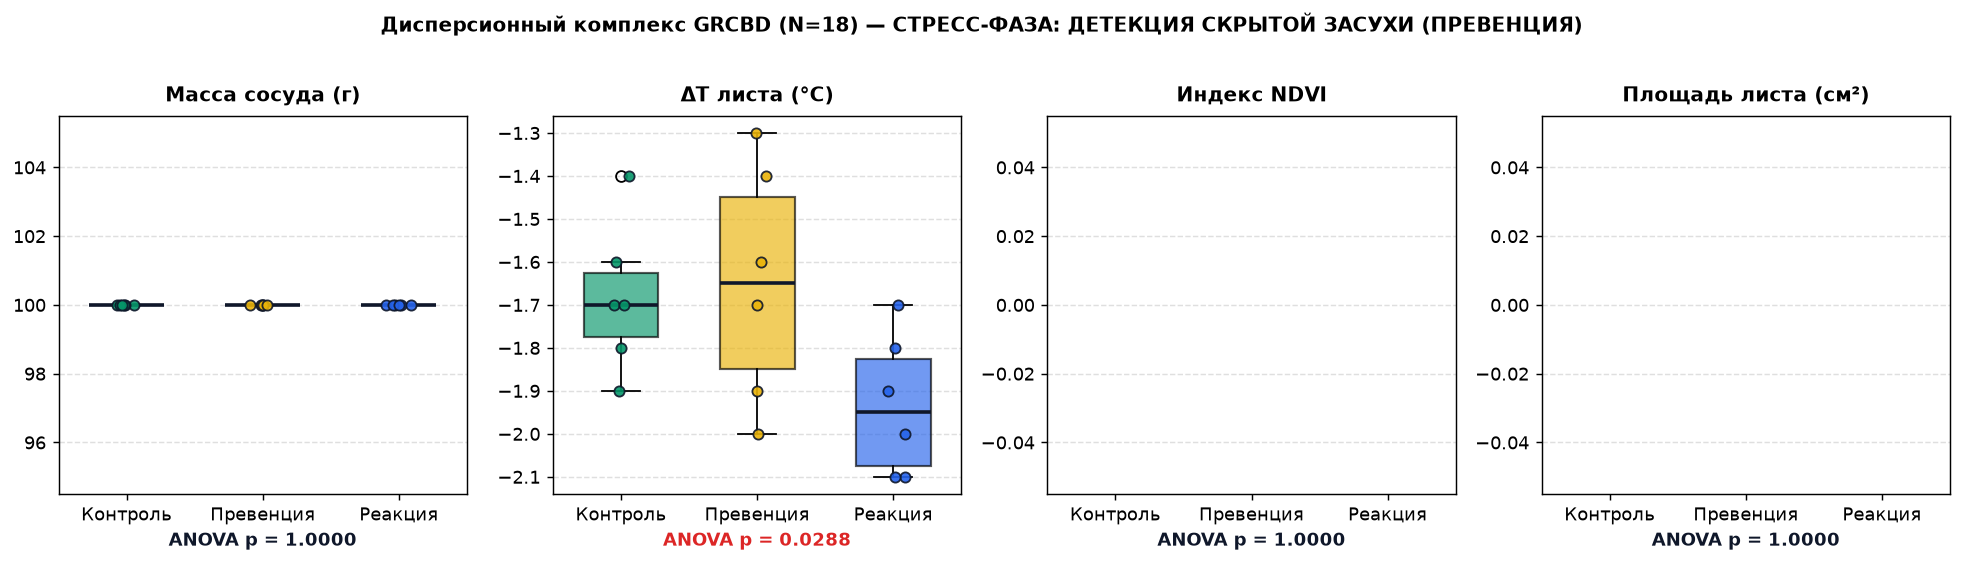
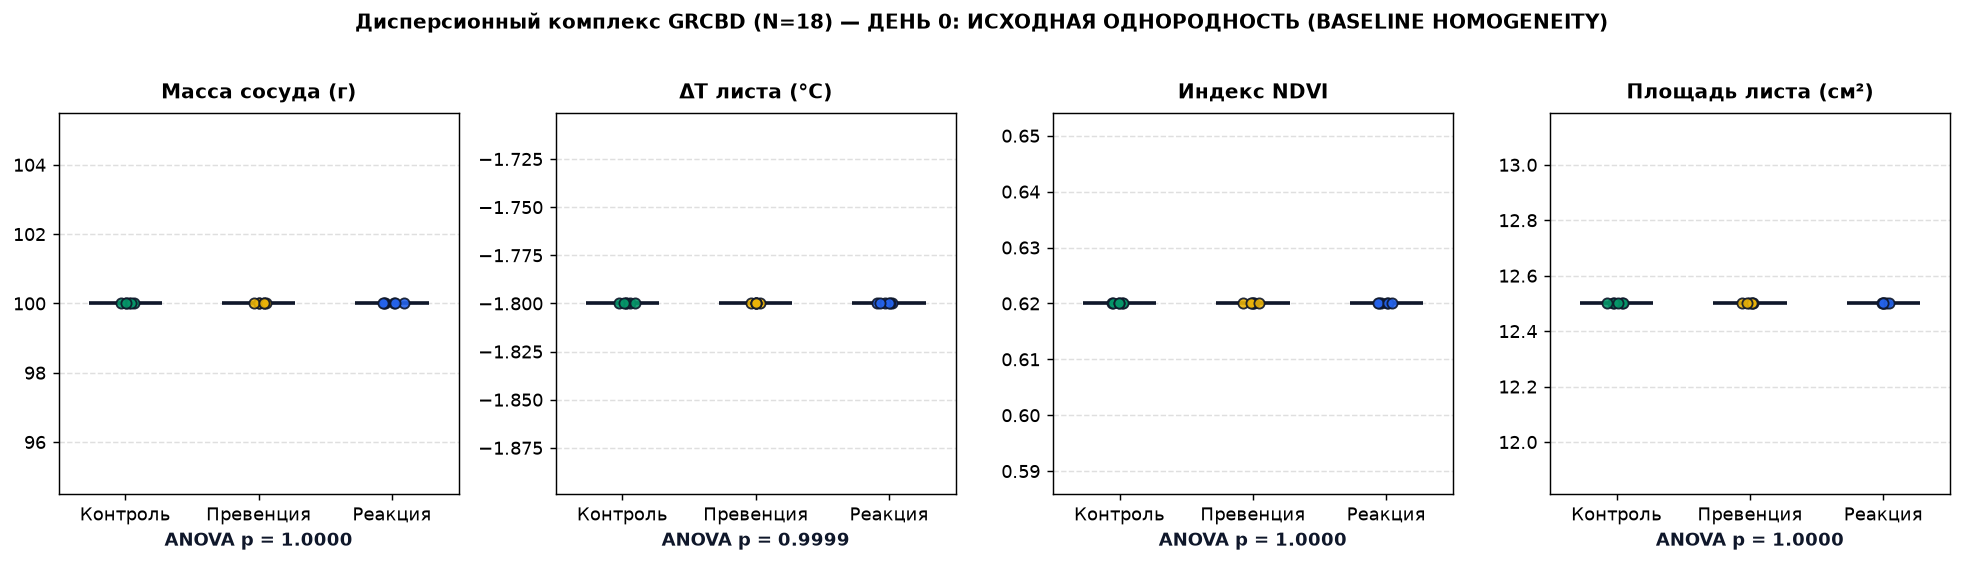
fix(anova): согласование имен колонок NDVI_Mean и Leaf_Area_cm2 для расчета биостатистики

diff --git a/tests/test_wave2_anova.py b/tests/test_wave2_anova.py
@@ -147,3 +147,26 @@ def test_wave2_dashboard_contains_anova_ui():
     assert 'id="anovaModal"' in html
     assert 'id="anovaTable"' in html
     assert 'id="anovaChartImg"' in html
+
+
+def test_wave2_anova_reads_csv_column_names():
+    """Проверка корректного считывания колонок NDVI_Mean и Leaf_Area_cm2 из CSV."""
+    records = []
+    for pid in ["K1", "K2", "K3", "K4", "K5", "K6",
+                "P1", "P2", "P3", "P4", "P5", "P6",
+                "R1", "R2", "R3", "R4", "R5", "R6"]:
+        records.append({
+            "ID": pid,
+            "Weight_g": "100.0",
+            "Delta_T_C": "-1.8",
+            "NDVI_Mean": "0.620",
+            "Leaf_Area_cm2": "12.5",
+            "Turgor_Score": "4"
+        })
+    res = analyze_wave2_dataset(records)
+    assert res["ok"] is True
+    for row in res["summary_table"]:
+        if row["trait"] == "ndvi":
+            assert "0.62" in row["k_str"]
+        if row["trait"] == "pla_cm2":
+            assert "12.5" in row["k_str"]

diff --git a/core/wave2_anova.py b/core/wave2_anova.py
@@ -170,13 +170,15 @@ def analyze_wave2_dataset(records: List[Dict[str, Any]], static_dir: str = "stat
             dt = None
             
         try:
-            ndvi = float(r.get("NDVI_mean")) if r.get("NDVI_mean") not in (None, "", "--") else None
-        except ValueError:
+            raw_ndvi = r.get("NDVI_Mean") if r.get("NDVI_Mean") is not None else r.get("NDVI_mean", r.get("ndvi"))
+            ndvi = float(raw_ndvi) if raw_ndvi not in (None, "", "--") else None
+        except (ValueError, TypeError):
             ndvi = None
             
         try:
-            pla = float(r.get("PLA_cm2")) if r.get("PLA_cm2") not in (None, "", "--") else None
-        except ValueError:
+            raw_pla = r.get("Leaf_Area_cm2") if r.get("Leaf_Area_cm2") is not None else r.get("PLA_cm2", r.get("pla"))
+            pla = float(raw_pla) if raw_pla not in (None, "", "--") else None
+        except (ValueError, TypeError):
             pla = None
             
         try:

diff --git a/docs/wave2/ANOVA_LATEST_REPORT.md b/docs/wave2/ANOVA_LATEST_REPORT.md
@@ -1,7 +1,7 @@
 # 📊 СТАТИСТИЧЕСКИЙ ОТЧЕТ GRCBD (TWO-WAY ANOVA ПО ДОСПЕХОВУ)
-**Статус сессии:** 🚨 СТРЕСС-ФАЗА: ДЕТЕКЦИЯ СКРЫТОЙ ЗАСУХИ (ПРЕВЕНЦИЯ)  
+**Статус сессии:** 🟢 ДЕНЬ 0: ИСХОДНАЯ ОДНОРОДНОСТЬ (BASELINE HOMOGENEITY)  
 **Объем выборки:** N = 18 сосудов (3 когорты × 3 блока)  
-**Вердикт алгоритма:** Термографический триггер подтвержден ANOVA: достоверный перегрев кроны (ΔT F=5.396, p=0.0288) при сохранении визуального тургора (средний балл Реакции 4.0). Превентивный полив активирован!  
+**Вердикт алгоритма:** Нулевая гипотеза подтверждена (H0: p > 0.05). Различия между группами по массе (p=1.0) и ΔT (p=0.9999) отсутствуют. Стартовый перекос исключен. Старт стресс-фазы разрешен!  
 
 ---
 
@@ -10,9 +10,9 @@
 | Физиологический параметр | Контроль (M ± SE) | Превенция (M ± SE) | Реакция (M ± SE) | Фактор Когорта (F) | p (когорта) | Фактор Блок (F) | p (блок) | НСР₀₅ |
 | :--- | :---: | :---: | :---: | :---: | :---: | :---: | :---: | :---: |
 | **Масса сосуда (г)** | 100.0 ± 0.0 | 100.0 ± 0.0 | 100.0 ± 0.0 | 0.0 | **1.0** | 0.0 | 1.0 | 0.0 |
-| **ΔT листа (°C)** | -1.68 ± 0.07 | -1.65 ± 0.11 | -1.93 ± 0.07 | 5.396 | **0.0288** | 1.021 | 0.3985 | 0.213 |
-| **Индекс NDVI** | 0.0 ± 0.0 | 0.0 ± 0.0 | 0.0 ± 0.0 | 0.0 | **1.0** | -- | -- | -- |
-| **Площадь листа (см²)** | 0.0 ± 0.0 | 0.0 ± 0.0 | 0.0 ± 0.0 | 0.0 | **1.0** | -- | -- | -- |
+| **ΔT листа (°C)** | -1.8 ± 0.0 | -1.8 ± 0.0 | -1.8 ± 0.0 | 0.0 | **0.9999** | 0.0 | 0.9999 | 0.0 |
+| **Индекс NDVI** | 0.62 ± 0.0 | 0.62 ± 0.0 | 0.62 ± 0.0 | 0.0 | **1.0** | 0.0 | 1.0 | 0.0 |
+| **Площадь листа (см²)** | 12.5 ± 0.0 | 12.5 ± 0.0 | 12.5 ± 0.0 | 0.0 | **1.0** | 0.0 | 1.0 | 0.0 |
 | **Балл тургора (1–4)** | 4.0 ± 0.0 | 4.0 ± 0.0 | 4.0 ± 0.0 | 0.0 | **1.0** | 0.0 | 1.0 | 0.0 |
 
 ---
